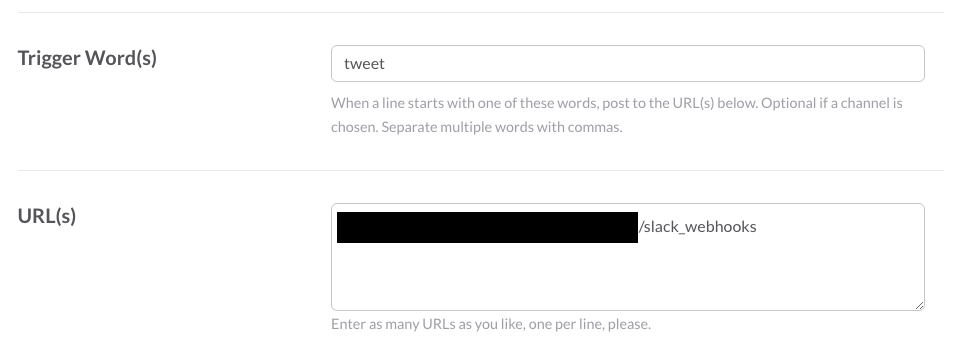
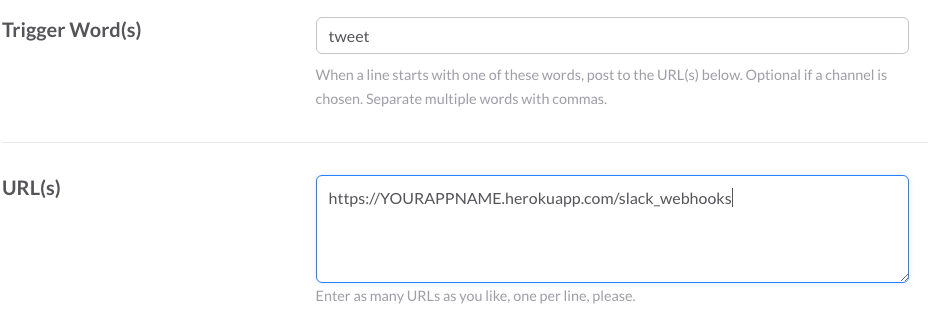
updating screenshots and readme

diff --git a/README.md b/README.md
@@ -1,15 +1,20 @@
-# Tweet from Slack!
+#  Tweet from Slack! <img src="app/assets/images/lpl-logo.png" width="50" alt="LaunchPad Lab Logo">
+
 [![Deploy](https://www.herokucdn.com/deploy/button.svg)](https://heroku.com/deploy?template=https://github.com/LaunchPadLab/slack_twitter_app/tree/dev)
 
 [![Code Climate](https://codeclimate.com/repos/5727c3e0b7eacc22740059a0/badges/c6e5cf6f1cce6491948d/gpa.svg)](https://codeclimate.com/repos/5727c3e0b7eacc22740059a0/feed)
 
 Tweet while you Slack! You're already using Slack for all forms of communication, why not send tweets to Twitter from Slack too?
+The Slack Twitter app makes it simple to send tweets from a Slack channel.
 
 TODO - add a more marketable general description and a detailed description including requirements (ie paid heroku account)
 
-TODO - add a lpl logo
-
 By [LaunchPad Lab](http://launchpadlab.com).
+
+***
+
+## Overview
+The Slack Twitter App uses Twitter OAuth to authenticate your Twitter account.
 
 ***
 
@@ -31,8 +36,6 @@ Create a new Slack Outgoing Webhook using your account.
 * URL: `https://YOURAPPNAME.herokuapp.com/slack_webhooks` (we will update this later)
 * Keep this window open, we will need some of the settings later.
 
-TODO - update screenshot to reflect above
-
 ![Slack screenshot](app/assets/images/slack1.png)
 ![Slack screenshot](app/assets/images/slack3.png)
 
@@ -52,8 +55,6 @@ Create a new Twitter application using your account. If you haven't already, you
 * Create your Twitter application
 * Keep this window open, we will need some of the settings later.
 
-TODO - update screenshot to reflect above
-
 ![Twitter screenshot](app/assets/images/twitter1.png)
 
 ***
@@ -69,7 +70,7 @@ TODO - update screenshot to reflect above
  * SLACK_TEAM_DOMAIN: Your slack team domain (ours is 'launchpadlab')
  * SLACK_TOKEN: Token from Slack Outgoing Webhook configuration
 
-  ![Heroku Screenshot](app/assets/images/heroku.png)
+![Heroku Screenshot](app/assets/images/heroku.png)
 
 ### Update URLs
 Replace 'YOURAPPNAME' with your Heroku app name in:
